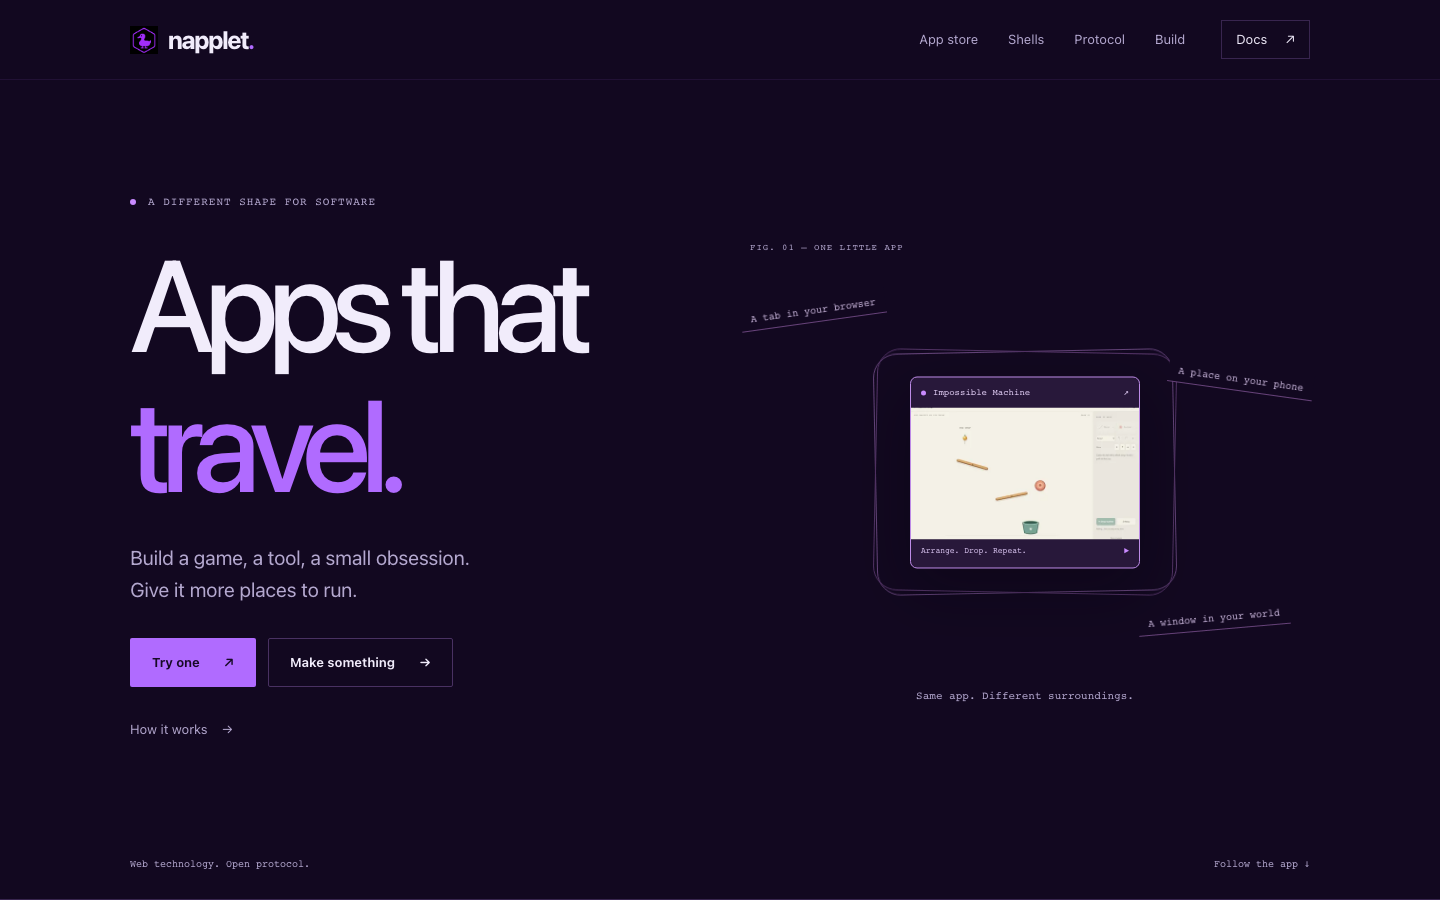
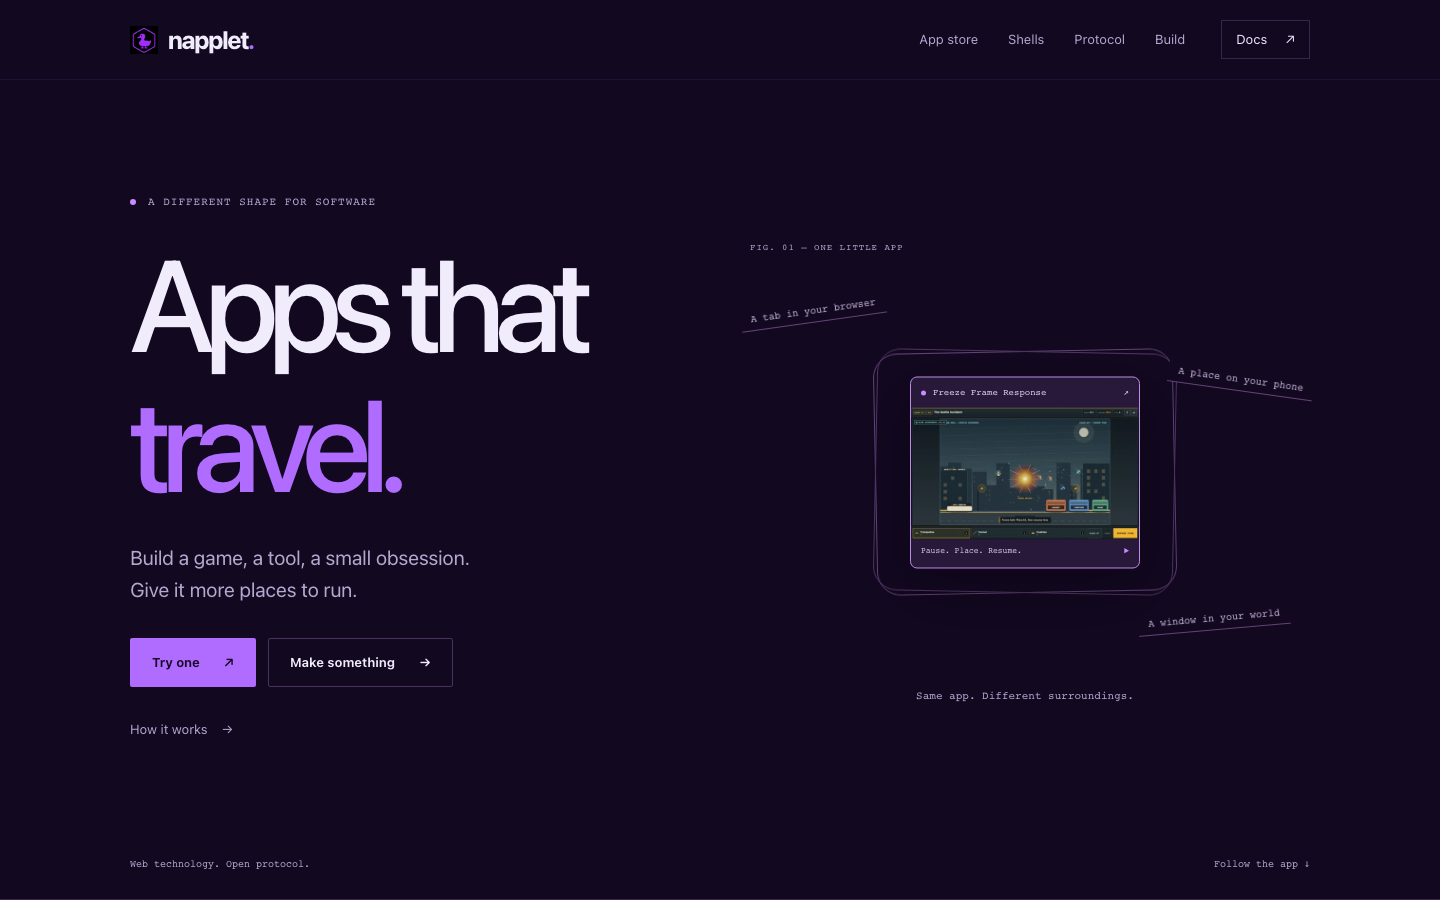
feat(web): lead with current NIP-5D app releases
Use direct artifact-hash releases for every homepage launch and the traveling app illustration. Retain the historical selections as explicitly labeled store archives, update gameplay checks and record the site Node requirement.

Changed region(s): [[0.625, 0.4356, 0.8125, 0.6222]]

diff --git a/apps/web/src/lib/player/verify.test.ts b/apps/web/src/lib/player/verify.test.ts
@@ -23,7 +23,7 @@ describe('the selected signed releases', () => {
   }
 
   it('rejects a modified manifest and a different valid release', async () => {
-    const entry = NAPPLETS[0];
+    const entry = NAPPLETS.find(app => app.format === 'archive')!;
     const changed = manifest(entry.manifest);
     changed.content = 'tampered';
     await expect(verifyArchivedRelease(changed, entry.eventId)).rejects.toThrow('signature');
@@ -38,14 +38,14 @@ describe('the selected signed releases', () => {
   });
 
   it('rejects an authentically signed but inconsistent aggregate', async () => {
-    const original = manifest(NAPPLETS[0].manifest);
+    const original = manifest(NAPPLETS.find(app => app.format === 'archive')!.manifest);
     const tags = original.tags.map((tag: string[]) => tag[0] === 'x' ? ['x', '0'.repeat(64), 'aggregate'] : tag);
     const event = finalizeEvent({ kind: original.kind, created_at: original.created_at, content: '', tags }, generateSecretKey());
     await expect(verifyArchivedRelease(event, event.id)).rejects.toThrow('aggregate');
   });
 
   it('requires the archived hash chain and does not require embedded metadata', async () => {
-    const original = manifest(NAPPLETS[0].manifest);
+    const original = manifest(NAPPLETS.find(app => app.format === 'archive')!.manifest);
     const event = finalizeEvent({ ...original, tags: original.tags.filter((tag: string[]) => tag[0] !== 'x') }, generateSecretKey());
     await expect(verifyArchivedRelease(event, event.id)).rejects.toThrow('aggregate');
     const plain = new TextEncoder().encode('<h1>Plain app</h1>');
@@ -53,7 +53,7 @@ describe('the selected signed releases', () => {
   });
 
   it('does not pretend to grant required services unavailable in the preview', async () => {
-    const original = manifest(NAPPLETS[0].manifest);
+    const original = manifest(NAPPLETS.find(app => app.format === 'archive')!.manifest);
     const event = finalizeEvent({ ...original, tags: [...original.tags, ['requires', 'storage']] }, generateSecretKey());
     await expect(verifyArchivedRelease(event, event.id)).rejects.toThrow('unavailable');
   });

diff --git a/apps/web/README.md b/apps/web/README.md
@@ -4,6 +4,8 @@ The Astro homepage introduces portable web apps through playable examples, real 
 
 ## Develop
 
+Use Node 24 LTS for the site toolchain. The installed Astro release requires Node >=22.23.4; CI and deployment use Node 24.
+
 From the repository root:
 
 ```bash
@@ -43,13 +45,13 @@ After assembly, `node scripts/check-protocol.mjs` verifies every detail page, so
 
 Edit `src/data/apps.json` for curated previews and `src/data/shells.json` for the shell directory. Each shell has `platforms`, a development `status`, an independent project URL and a source URL. Descriptions are editorial and non-normative; protocol requirements defer to the living [NIP-5D proposal](https://github.com/nostr-protocol/nips/pull/2303) and [NAPs track](https://github.com/napplet/naps). Platform labels were reviewed against project sources on 2026-10-28 and do not claim identical napplet support across every build.
 
-A curated preview entry supplies `id`, `name`, `description`, `category`, `href`, optional `source`, `image`, `eventId`, `manifest`, `artifact`, and an explicit `format` (`current` or `archive`). Mirror the original signed manifest under `public/showcase/manifests/` and its exact artifact under `public/showcase/blobs/`. Add an actual screenshot under `public/showcase/images/`. Check the source license and add its notice to `public/showcase/NOTICE.txt`. The verifier tests every configured preview. The homepage selects the first three entries; `/apps/` shows the whole collection. No component edits are needed to add a preview or shell.
+A curated preview entry supplies `id`, `name`, `description`, `category`, `href`, optional `source`, `image`, `eventId`, `manifest`, `artifact`, and an explicit `format` (`current` or `archive`). Mirror the original signed manifest under `public/showcase/manifests/` and its exact artifact under `public/showcase/blobs/`. Add an actual screenshot under `public/showcase/images/`. Check the source license and add its notice to `public/showcase/NOTICE.txt`. The verifier tests every configured preview. The homepage selects the first three entries, currently all direct artifact-hash releases; `/apps/` shows the whole collection. No component edits are needed to add a preview or shell.
 
 The three original previews remain explicitly archived releases with a private historical verifier. Three additional releases use direct artifact hashes from their own signed manifests. The player verifies each publisher signature and original artifact hash before execution, then grants no NAP domains. Apps needing shell services belong in a full shell. Current-release identity checks follow NIP-5D Identity; the preview is not a full protocol or manifest conformance certification. Some upstream releases still use `nostr://` source locations outside the current proposal's Source formats; signed events stay unchanged and source links use their HTTPS source archives. Loader attribution and app licenses are preserved in the notice.
 
 ## App store and discovery
 
-`/apps/` includes six curated playable selections and signed public relay discoveries. `src/data/discovery.json` configures the relay list, request limit and timeout. Refresh the saved relay snapshot from the repository root with Node 22 or newer:
+`/apps/` includes six curated playable selections and signed public relay discoveries. `src/data/discovery.json` configures the relay list, request limit and timeout. Refresh the saved relay snapshot from the repository root with Node 24 LTS:
 
 ```bash
 node scripts/refresh-showcase-apps.mjs
@@ -97,4 +99,4 @@ The deployment workflow uploads the resulting `site/` directory to Bunny storage
 
 ## Homepage presentation checks
 
-`node scripts/check-showcase.mjs <assembled-site-url>` checks the four builder paths, the single below-fold network explanation, archived previews, mobile layouts, no-JavaScript content, and section-specific GSAP choreography. It also switches reduced motion during a session to check cleanup. Regenerate the matching 1200×630 social card with `node scripts/generate-social-card.mjs` after changing its headline or visual motif.
+`node scripts/check-showcase.mjs <assembled-site-url>` checks the four builder paths, the single below-fold network explanation, current signed previews, mobile layouts, no-JavaScript content, and section-specific GSAP choreography. It also switches reduced motion during a session to check cleanup. Regenerate the matching 1200×630 social card with `node scripts/generate-social-card.mjs` after changing its headline or visual motif.

diff --git a/.planning/quick/261028-bvy-develop-the-traveling-app-into-section-s/RESEARCH.md b/.planning/quick/261028-bvy-develop-the-traveling-app-into-section-s/RESEARCH.md
@@ -25,6 +25,8 @@ A live external check found napplet.soy's named-app `/n/` route rejects `nevent`
 
 ## Visual direction
 
-The rejected four-circle image is replaced by the recognizable Impossible Machine app window. Its purpose changes: open a collection, inhabit desktop then phone, connect to services, become an empty canvas. The same desktop element moves through measured anchors and stops with each illustration. Small screens animate local instances; reduced motion and no-JavaScript use the static illustrations. Source anchors are not transformed by reveal animations. Their document positions are sorted before constructing the journey.
+The rejected four-circle image is replaced by the recognizable Freeze Frame Response app window. Its purpose changes: open a collection, inhabit desktop then phone, connect to services, become an empty canvas. The same desktop element moves through measured anchors and stops with each illustration. Small screens animate local instances; reduced motion and no-JavaScript use the static illustrations. Source anchors are not transformed by reveal animations. Their document positions are sorted before constructing the journey.
 
 GSAP timelines synchronize the collection fan, host masks, service wire drawing, canvas morph and content reveals. Normal browser scrolling remains in control. The social preview now uses the actual app too.
+
+The homepage and social card now spotlight a direct artifact-hash release, Freeze Frame Response. The three current-format selections lead the curated list; legacy releases remain labeled archives in the app store. The public default experience does not use the archive adapter.
